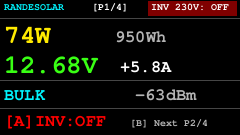
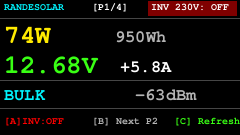
feat(stamplc): align LCD bottom button legends to physical hardware layout [A] Left, [B] Center, [C] Right

Changed region(s): [[0.0, 0.8296, 1.0, 0.9778]]

diff --git a/src/stamplc_main.cpp b/src/stamplc_main.cpp
@@ -1712,24 +1712,24 @@ void renderLcdDashboard() {
         // Outside Pinion Wheel: Charge % (SOC), Inside Coconut: Charge Mode
         drawNeonCoconutLogo(120, 56, g_data.battery_voltage, g_data.battery_current, g_data.external_load, g_data.charge_state);
 
-        // Minimal single bottom line for button descriptions
+        // Minimal single bottom line for button descriptions matching physical A (Left), B (Center), C (Right)
         dsp.drawFastHLine(0, 118, 240, TFT_DARKGREY);
         dsp.setTextSize(1);
 
-        // Button A: Inverter (Relay 1 NO)
+        // Button A (Left): Inverter (Relay 1 NO)
         dsp.setTextColor(g_relay1_inverter ? TFT_GREEN : TFT_RED, TFT_BLACK);
         dsp.setCursor(4, 122);
         dsp.printf("[A]INV:%s", g_relay1_inverter ? "ON" : "OFF");
 
-        // Button C: 12V LED Strip (Relay 2 NC)
-        dsp.setTextColor(g_led_strip_on ? TFT_YELLOW : TFT_DARKGREY, TFT_BLACK);
-        dsp.setCursor(76, 122);
-        dsp.printf("[C]STRIP:%s", g_led_strip_on ? "ON" : "OFF");
-
-        // Button B: Next Screen
+        // Button B (Center): Next Screen
         dsp.setTextColor(TFT_LIGHTGREY, TFT_BLACK);
-        dsp.setCursor(162, 122);
+        dsp.setCursor(92, 122);
         dsp.print("[B] Next >");
+
+        // Button C (Right): 12V LED Strip (Relay 2 NC)
+        dsp.setTextColor(g_led_strip_on ? TFT_YELLOW : TFT_DARKGREY, TFT_BLACK);
+        dsp.setCursor(164, 122);
+        dsp.printf("[C]STRIP:%s", g_led_strip_on ? "ON" : "OFF");
 
     } else if (g_lcd_page == 1) {
         // ==================== PAGE 1: HERO SOLAR & BATTERY [P1/4] ====================
@@ -1772,17 +1772,20 @@ void renderLcdDashboard() {
         dsp.setCursor(135, 86);
         dsp.printf("%ddBm", g_data.rssi);
 
-        // Footer: Buttons & Navigation
+        // Footer: Buttons & Navigation matching physical A (Left), B (Center), C (Right)
         dsp.drawFastHLine(0, 108, 240, TFT_DARKGREY);
-        dsp.setTextSize(2);
-        dsp.setTextColor(g_relay1_inverter ? TFT_GREEN : TFT_RED, TFT_BLACK);
-        dsp.setCursor(4, 114);
-        dsp.printf("[A]INV:%s", g_relay1_inverter ? "ON " : "OFF");
-
         dsp.setTextSize(1);
+        dsp.setTextColor(g_relay1_inverter ? TFT_GREEN : TFT_RED, TFT_BLACK);
+        dsp.setCursor(4, 116);
+        dsp.printf("[A]INV:%s", g_relay1_inverter ? "ON" : "OFF");
+
         dsp.setTextColor(TFT_LIGHTGREY, TFT_BLACK);
-        dsp.setCursor(130, 120);
-        dsp.print("[B] Next P2/4");
+        dsp.setCursor(92, 116);
+        dsp.print("[B] Next P2");
+
+        dsp.setTextColor(TFT_GREEN, TFT_BLACK);
+        dsp.setCursor(174, 116);
+        dsp.print("[C] Refresh");
 
     } else if (g_lcd_page == 2) {
         // ==================== PAGE 2: NETWORK & CLOUD SYNC [P2/4] ====================
@@ -1816,7 +1819,13 @@ void renderLcdDashboard() {
         dsp.setTextSize(1);
         dsp.setTextColor(TFT_YELLOW, TFT_BLACK);
         dsp.setCursor(4, 116);
-        dsp.print("[A] Wi-Fi Menu   [B] Next P3/4");
+        dsp.print("[A] Menu");
+        dsp.setTextColor(TFT_LIGHTGREY, TFT_BLACK);
+        dsp.setCursor(92, 116);
+        dsp.print("[B] Next P3");
+        dsp.setTextColor(TFT_GREEN, TFT_BLACK);
+        dsp.setCursor(174, 116);
+        dsp.print("[C] Refresh");
 
     } else if (g_lcd_page == 3) {
         // ==================== PAGE 3: TELTONIKA 5G GATEWAY [P3/4] ====================
@@ -1855,7 +1864,13 @@ void renderLcdDashboard() {
         dsp.setTextSize(1);
         dsp.setTextColor(TFT_YELLOW, TFT_BLACK);
         dsp.setCursor(4, 116);
-        dsp.print("[A] Test Ping    [B] Next P4/4");
+        dsp.print("[A] Ping");
+        dsp.setTextColor(TFT_LIGHTGREY, TFT_BLACK);
+        dsp.setCursor(92, 116);
+        dsp.print("[B] Next P4");
+        dsp.setTextColor(TFT_GREEN, TFT_BLACK);
+        dsp.setCursor(174, 116);
+        dsp.print("[C] Refresh");
 
     } else if (g_lcd_page == 4) {
         // ==================== PAGE 4: WEATHER & MICROCLIMATE [P4/4] ====================
@@ -1894,7 +1909,13 @@ void renderLcdDashboard() {
         dsp.setTextSize(1);
         dsp.setTextColor(TFT_YELLOW, TFT_BLACK);
         dsp.setCursor(4, 116);
-        dsp.print("[A] Sync Weather [B] Back to Coconut");
+        dsp.print("[A] Sync WX");
+        dsp.setTextColor(TFT_LIGHTGREY, TFT_BLACK);
+        dsp.setCursor(92, 116);
+        dsp.print("[B] Coconut");
+        dsp.setTextColor(TFT_GREEN, TFT_BLACK);
+        dsp.setCursor(174, 116);
+        dsp.print("[C] Refresh");
     }
 
     dsp.endWrite();

diff --git a/docs/stamplc_display_manual.md b/docs/stamplc_display_manual.md
@@ -7,13 +7,16 @@
 
 ## 🕹 Hardware Button Summary
 
-The StamPLC front panel features three tactile buttons located directly under the display:
+The StamPLC front panel features three physical tactile buttons arranged horizontally directly below the display:
+* **Btn [A]** (Left)
+* **Btn [B]** (Center)
+* **Btn [C]** (Right)
 
-| Button | Page 0 (Coconut Emblem) | Page 1 (Solar & Battery) | Page 2 (Network & Sync) | Page 3 (Teltonika 5G) | Page 4 (Meteo Microclimate) |
+| Button Position | Page 0 (Coconut Emblem) | Page 1 (Solar & Battery) | Page 2 (Network & Sync) | Page 3 (Teltonika 5G) | Page 4 (Meteo Microclimate) |
 | :--- | :--- | :--- | :--- | :--- | :--- |
-| **Btn [A]** | **Toggle 230V Inverter** (Relay 1 NO)<br>*(1800 Hz high chime ON / 900 Hz low OFF)* | **Toggle 230V Inverter** (Relay 1 NO)<br>*(Instant power switch)* | **Open Wi-Fi Menu**<br>*(Interactive AP selector)* | **Trigger Latency Ping**<br>*(Gateway & Cloudflare 1.1.1.1)* | **Force Weather Sync**<br>*(Fetch Open-Meteo & MeteoSwiss)* |
-| **Btn [B]** | **Next Page ➡**<br>*(Advances to Page 1)* | **Next Page ➡**<br>*(Advances to Page 2)* | **Next Page ➡**<br>*(Advances to Page 3)* | **Next Page ➡**<br>*(Advances to Page 4)* | **Next Page ➡**<br>*(Cycles back to Page 0)* |
-| **Btn [C]** | **Toggle 12V LED Strip** (Relay 2 NC)<br>*(2000 Hz ON / 1000 Hz OFF)* | **Force Telemetry Refresh** | **Force Telemetry Refresh** | **Force Telemetry Refresh** | **Force Telemetry Refresh** |
+| **Btn [A] (Left)** | **Toggle 230V Inverter** (Relay 1 NO)<br>*(1800 Hz high chime ON / 900 Hz low OFF)* | **Toggle 230V Inverter** (Relay 1 NO)<br>*(Instant power switch)* | **Open Wi-Fi Menu**<br>*(Interactive AP selector)* | **Trigger Latency Ping**<br>*(Gateway & Cloudflare 1.1.1.1)* | **Force Weather Sync**<br>*(Fetch Open-Meteo & MeteoSwiss)* |
+| **Btn [B] (Center)** | **Next Page ➡**<br>*(Advances to Page 1)* | **Next Page ➡**<br>*(Advances to Page 2)* | **Next Page ➡**<br>*(Advances to Page 3)* | **Next Page ➡**<br>*(Advances to Page 4)* | **Back to Coconut 🥥**<br>*(Cycles back to Page 0)* |
+| **Btn [C] (Right)** | **Toggle 12V LED Strip** (Relay 2 NC)<br>*(2000 Hz ON / 1000 Hz OFF)* | **Force Telemetry Refresh** | **Force Telemetry Refresh** | **Force Telemetry Refresh** | **Force Telemetry Refresh** |
 
 > [!NOTE]
 > **Safety Undervoltage Guard**: If battery voltage drops below $11.50\,\text{V}$, Relay 1 automatically cuts off the 230V inverter to protect the 4x VOLTIC 95 Ah AGM bank, accompanied by a double low warning tone ($800\,\text{Hz}$).
